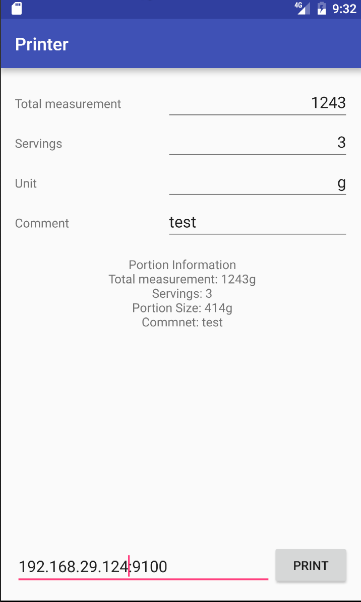
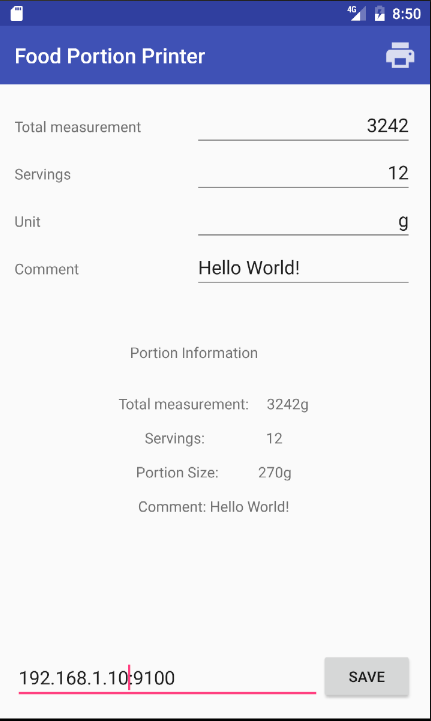
add dish name

diff --git a/FoodPrinter/app/src/main/java/de/alpharesearch/printer/MainActivity.java b/FoodPrinter/app/src/main/java/de/alpharesearch/printer/MainActivity.java
@@ -15,8 +15,6 @@ import android.view.View;
 import android.widget.TextView;
 import android.widget.EditText;
 
-import java.nio.charset.Charset;
-
 public class MainActivity extends AppCompatActivity {
     TcpClient mTcpClient;
 
@@ -68,23 +66,25 @@ public class MainActivity extends AppCompatActivity {
             Log.e(String.valueOf(R.string.Save),"trying to convert:"+editText_Servings.getText().toString()+" to integer failed");
             servings  = 1;
         }
+        EditText editText_Dish = (EditText) this.findViewById(R.id.editTextName);
         EditText editText_Unit = (EditText) this.findViewById(R.id.editText_Unit);
         EditText editText_Comment = (EditText) this.findViewById(R.id.editText_Comment);
         TextView mTextView_Preview = (TextView) this.findViewById(R.id.textView_Preview);
-
+        String dish_name = editText_Dish.getText().toString();
+        if (dish_name.length()== 0)dish_name = getString(R.string.Portion_Information);
         String print_this = "\n"
-                +"┌"+Mtext("─","",30)+"┐\n"
-                +"│"+Mtext(" ","",30)+"│\n"
-                +"│"+getString(R.string.Portion_Information)+Mtext(" ","",30-getString(R.string.Portion_Information).length())+"│\n"
-                +"│"+Mtext(" ","",30)+"│\n"
-                +"├"+Mtext("─","",30)+"┤\n"
-                +"│ "+getString(R.string.Total_measurement)+":"+Mtext(" ","",27-getString(R.string.Total_measurement).length()-Integer.toString(measurement).length()-editText_Unit.getText().toString().length())+Integer.toString(measurement)+editText_Unit.getText().toString()+" │\n"
-                +"├"+Mtext("─","",30)+"┤\n"
-                +"│ "+getString(R.string.Servings)+":"+Mtext(" ",Integer.toString(servings),27-getString(R.string.Servings).length())+" │\n"
-                +"├"+Mtext("─","",30)+"┤\n"
-                +"│ "+getString(R.string.Portion_Size)+":"+Mtext(" ","",27-getString(R.string.Portion_Size).length()-Integer.toString(measurement/servings).length()-editText_Unit.getText().toString().length())+Integer.toString((measurement/servings))+editText_Unit.getText().toString()+" │\n"
-                +"└"+Mtext("─","",30)+"┘\n"
-                +""+getString(R.string.Comment)+": "+editText_Comment.getText().toString()+"\n"
+                +"┌"+ MtextL("─","",30)+"┐\n"
+                +"│"+ MtextL(" ","",30)+"│\n"
+                +"│"+ MtextR(" ", dish_name,30)+"│\n"
+                +"│"+ MtextL(" ","",30)+"│\n"
+                +"├"+ MtextL("─","",30)+"┤\n"
+                +"│ "+getString(R.string.Total_measurement)+":"+ MtextL(" ",Integer.toString(measurement)+editText_Unit.getText().toString(),27-getString(R.string.Total_measurement).length())+" │\n"
+                +"├"+ MtextL("─","",30)+"┤\n"
+                +"│ "+getString(R.string.Servings)+":"+ MtextL(" ",Integer.toString(servings),27-getString(R.string.Servings).length())+" │\n"
+                +"├"+ MtextL("─","",30)+"┤\n"
+                +"│ "+getString(R.string.Portion_Size)+":"+ MtextL(" ","",27-getString(R.string.Portion_Size).length()-Integer.toString(measurement/servings).length()-editText_Unit.getText().toString().length())+Integer.toString((measurement/servings))+editText_Unit.getText().toString()+" │\n"
+                +"└"+ MtextL("─","",30)+"┘\n"
+                +""+getString(R.string.Comment)+":\n"+editText_Comment.getText().toString()+"\n"
                 +"\n\n\n\n\n\n";
 
 
@@ -102,14 +102,27 @@ public class MainActivity extends AppCompatActivity {
         return true;
     }
 
-    private String Mtext(String A, String B, int L) {
+    private String MtextL(String A, String B, int L) {
 
         String buf="";
         L = L - B.length();
+        if (L<0) L=0;
         for(int i=0; i!=L;i++) {
             buf = buf + A;
         }
         buf = buf + B;
+        return buf;
+    }
+
+    private String MtextR(String A, String B, int L) {
+
+        String buf="";
+        L = L - B.length();
+        if (L<0) L=0;
+        buf = buf + B;
+        for(int i=0; i!=L;i++) {
+            buf = buf + A;
+        }
         return buf;
     }
 
